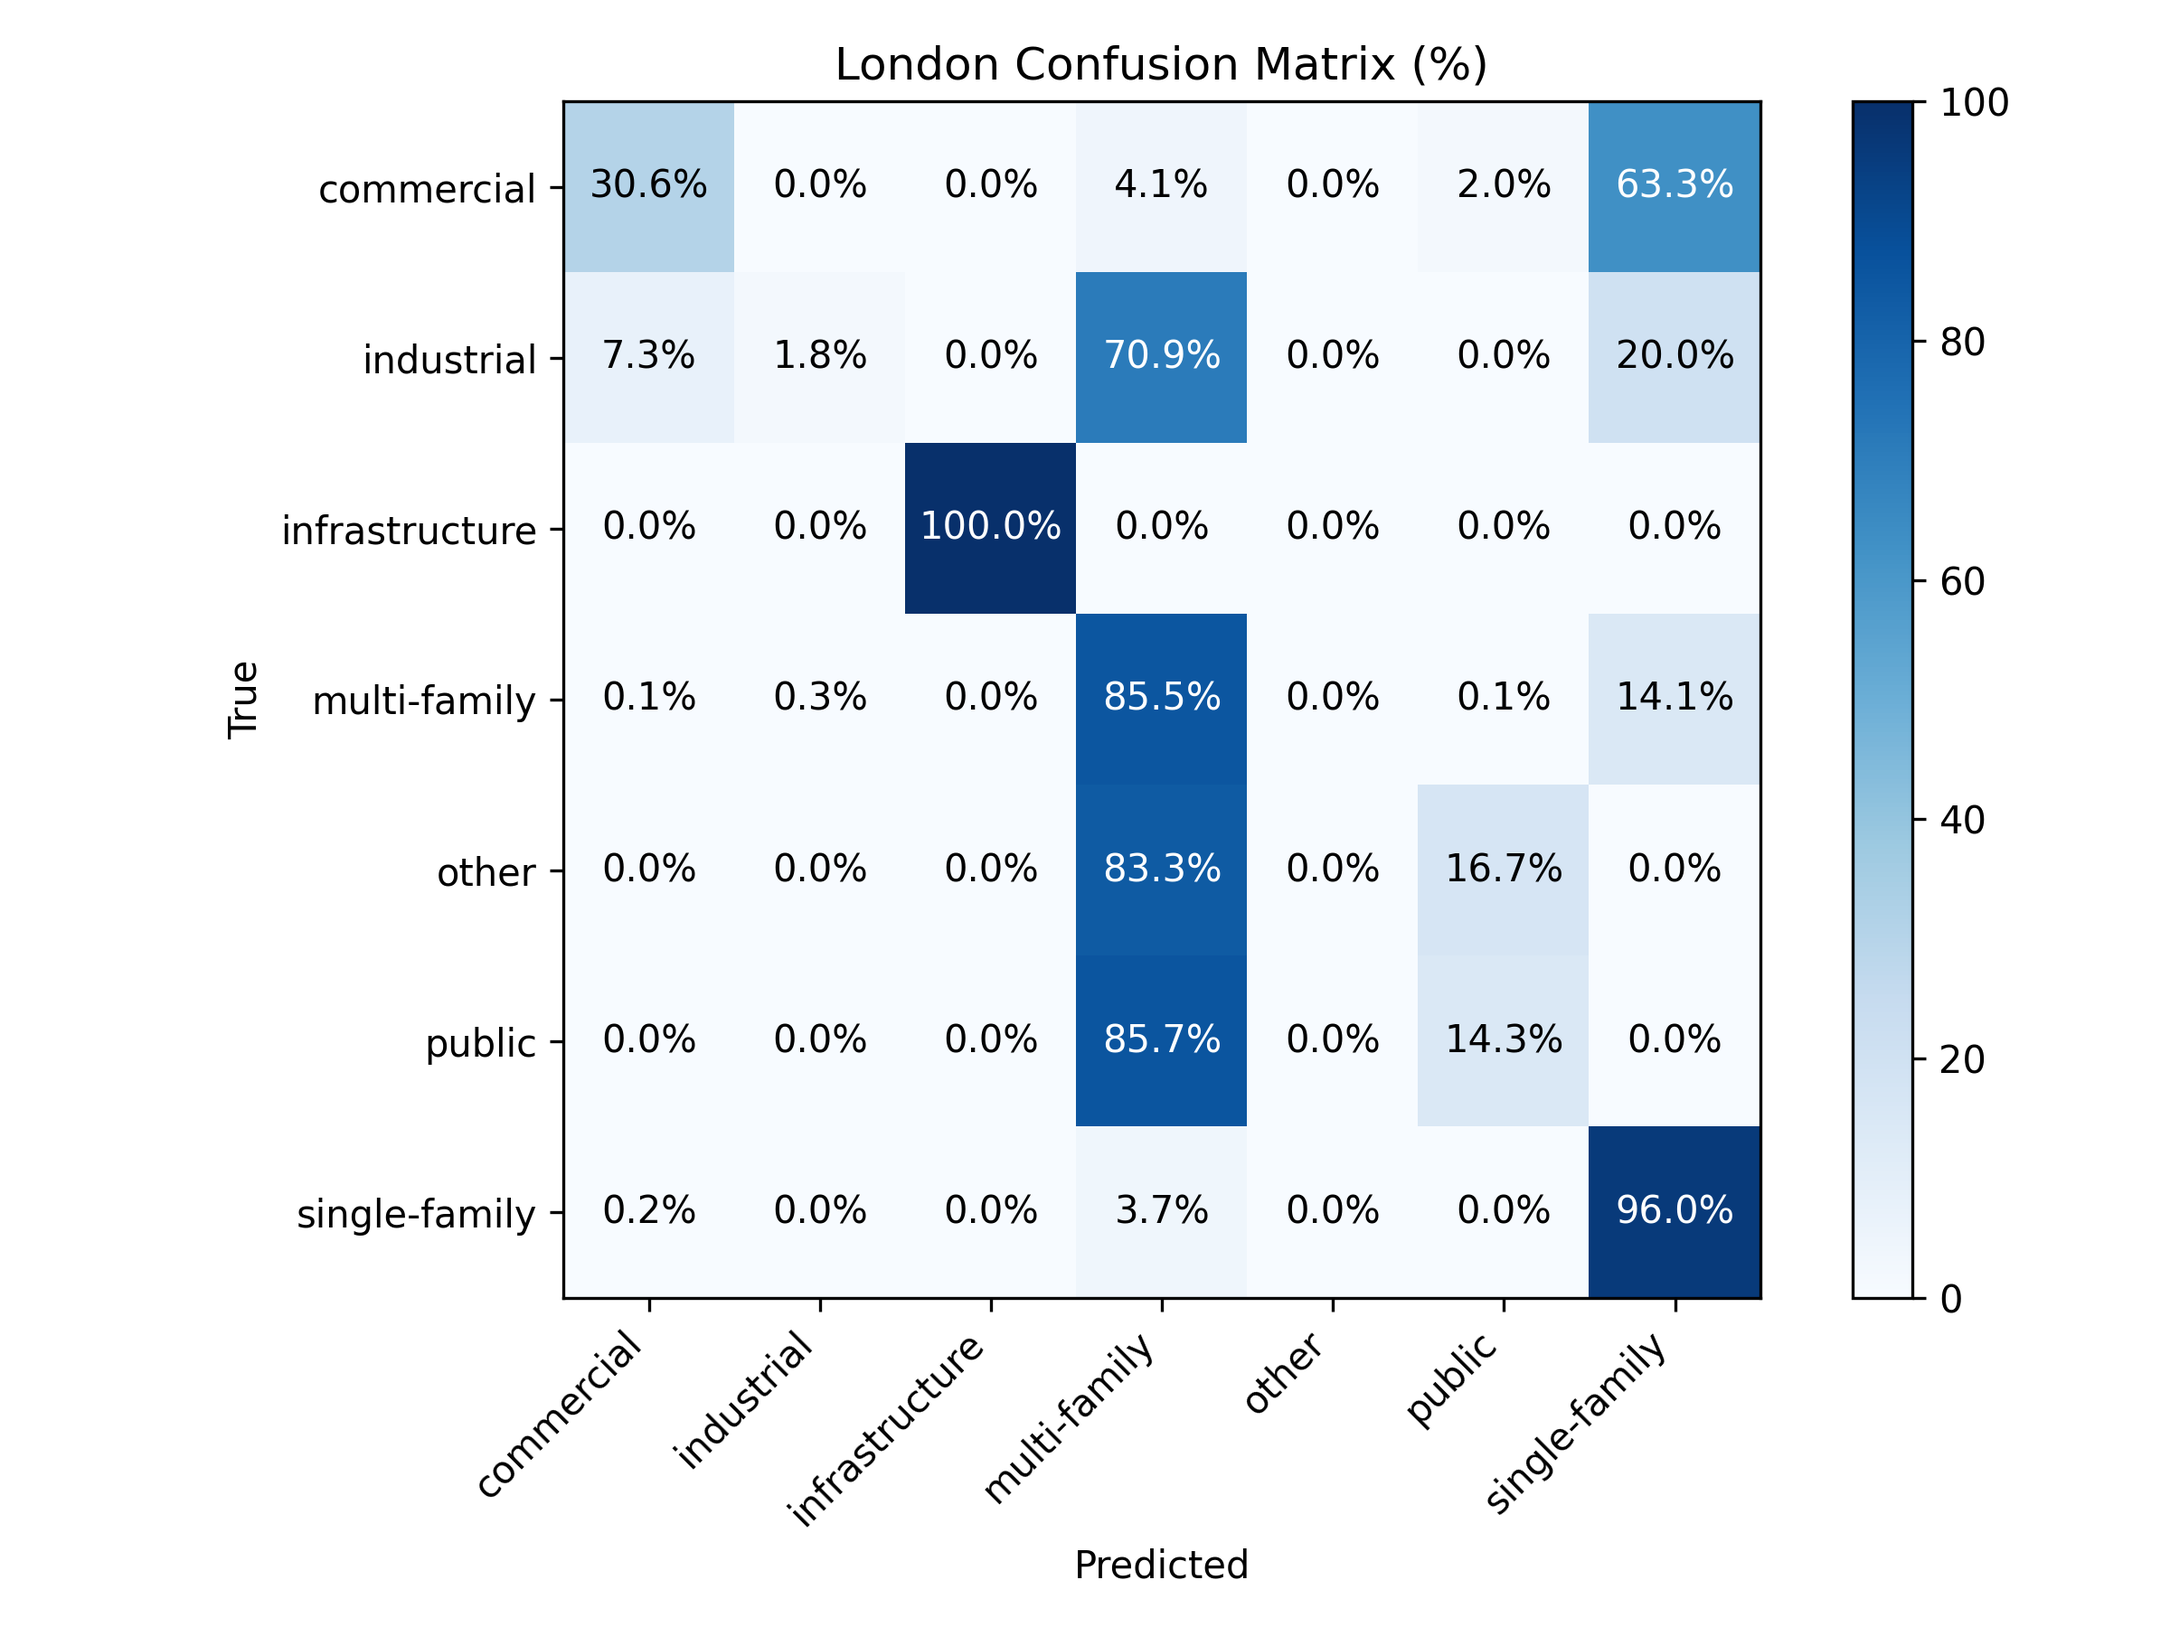
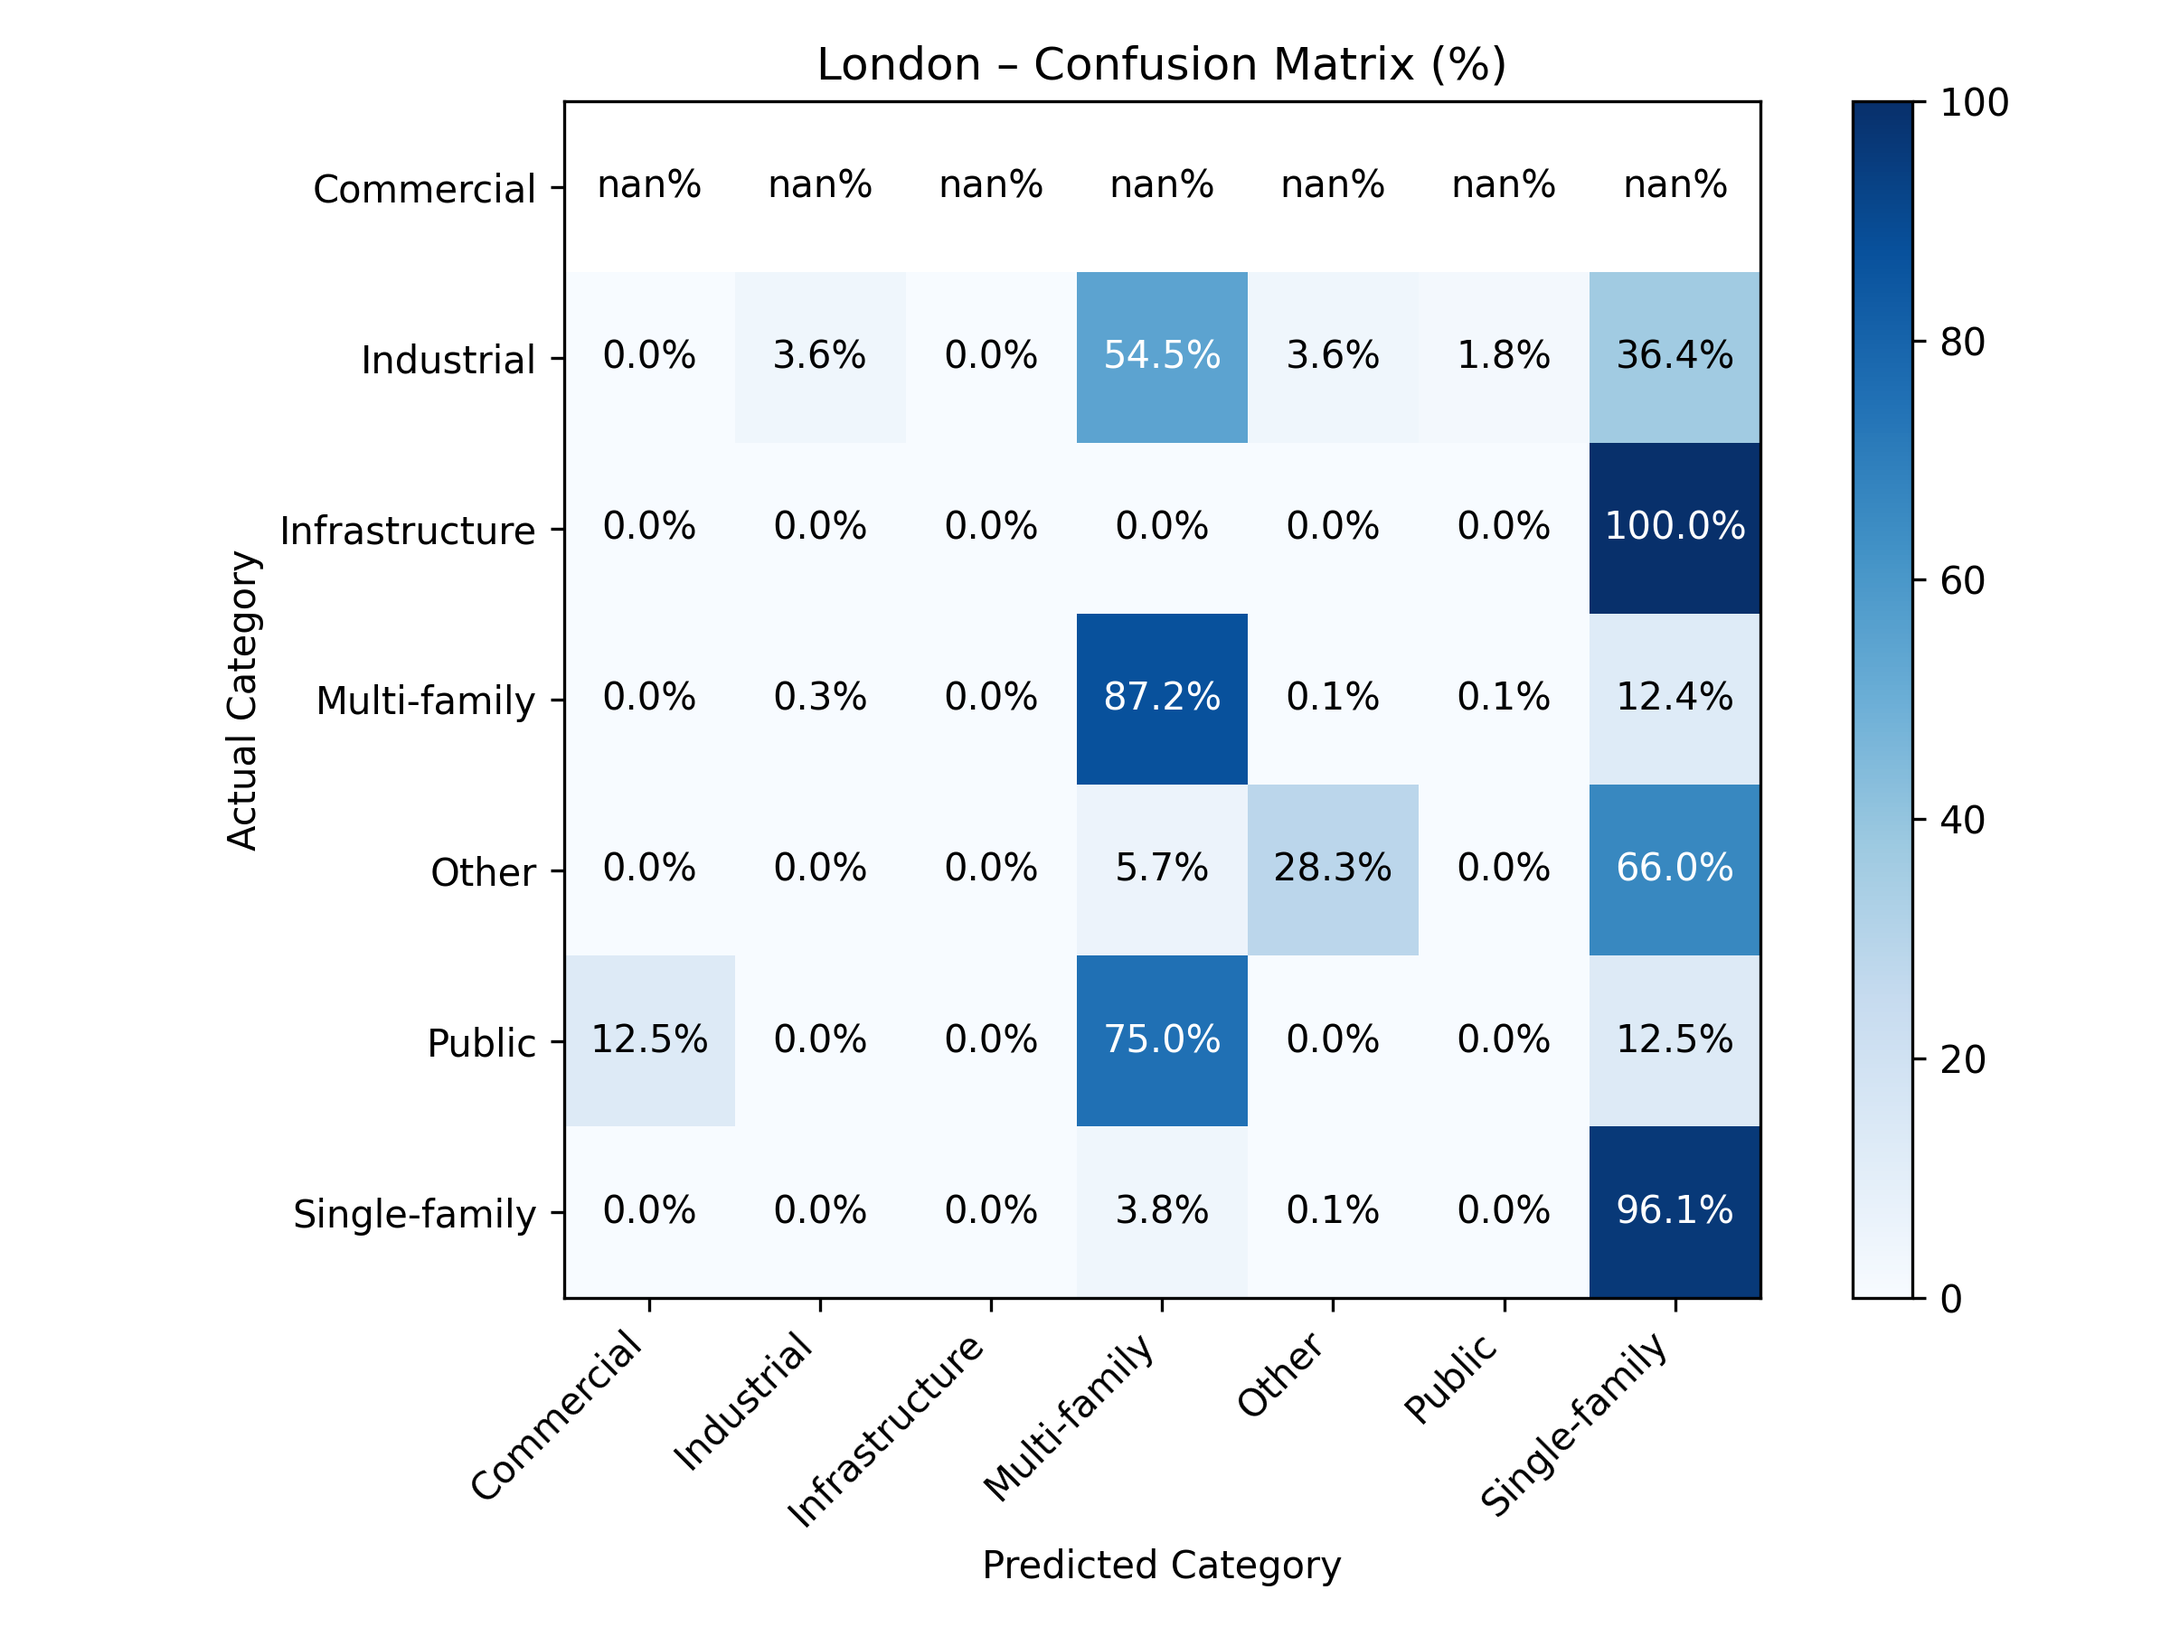
Enhance building category mapping and print "other" categories for clarity

diff --git a/data_visualization.py b/data_visualization.py
@@ -18,39 +18,50 @@ from matplotlib.patches import Patch
 # Suppress warnings
 warnings.filterwarnings("ignore", category=UndefinedMetricWarning)
 
-# Consistent categories & colors
-categories = [
-    "multi-family",
-    "single-family",
-    "commercial",
-    "industrial",
-    "public",
-    "infrastructure",
-    "other",
-]
-color_map = {
-    "multi-family": "#1F4E79",
-    "single-family": "#D55E00",
-    "commercial": "#3C7A3F",
-    "industrial": "#A11D21",
-    "public": "#7A4A91",
-    "infrastructure": "#FF5C6A",
-    "other": "#6B4A3F",
+# --- 0) Reader-friendly display names ---
+category_display = {
+    "multi-family": "Multi-family",
+    "single-family": "Single-family",
+    "commercial": "Commercial",
+    "industrial": "Industrial",
+    "public": "Public",
+    "infrastructure": "Infrastructure",
+    "other": "Other",
 }
 
-# lighter gray for train set
-light_gray = "#e0e0e0"
-gray_patch = Patch(color=light_gray, label="train set")
+feature_display = {
+    "compactnes": "Compactness",
+    "global_int": "Global Integration",
+    "local_inte": "Local Integration",
+    "building_c": "Building Coverage",
+    "rbox_width": "Building X-Dimension",
+    "rbox_height": "Building Y-Dimension",
+}
 
-# Output folder
+# Color mapping remains the same
+color_map = {
+    k: v
+    for k, v in {
+        "multi-family": "#1F4E79",
+        "single-family": "#D55E00",
+        "commercial": "#3C7A3F",
+        "industrial": "#A11D21",
+        "public": "#7A4A91",
+        "infrastructure": "#FF5C6A",
+        "other": "#6B4A3F",
+    }.items()
+}
+light_gray = "#e0e0e0"
+gray_patch = Patch(color=light_gray, label="Train set")
+
 output_dir = Path("images")
 output_dir.mkdir(exist_ok=True)
 
-# 1. Load all shapefiles, tag by city
+# --- Load & preprocess ---
 shp_paths = list(Path("data/Selected Cities").rglob("*.shp"))
 gdfs = []
 for fp in shp_paths:
-    city = Path(fp).parent.name
+    city = fp.parent.name
     g = gpd.read_file(fp)
     g["city"] = city
     gdfs.append(g)
@@ -58,12 +69,10 @@ if not gdfs:
     raise RuntimeError("No shapefiles found under data/Selected Cities")
 df = pd.concat(gdfs, ignore_index=True)
 
-# 2. Preprocess
 df.columns = df.columns.str.lower()
 df = df.dropna(subset=["building_t"]).to_crs(epsg=3857)
 
 
-# 3. Rotated‐bbox dims
 def rotated_dims(geom: Polygon):
     r = geom.minimum_rotated_rectangle
     pts = np.array(r.exterior.coords)[:4]
@@ -75,9 +84,11 @@ def rotated_dims(geom: Polygon):
 r_dims = np.array([rotated_dims(g) for g in df.geometry])
 df["rbox_width"], df["rbox_height"] = r_dims[:, 0], r_dims[:, 1]
 
-# 4. Main category mapping
-group_map = {"apartments": "multi-family"}
+# Map OSM building tags to your main categories
+group_map = {}
+group_map["apartments"] = "multi-family"
 for t in [
+    "residential",
     "house",
     "detached",
     "semidetached_house",
@@ -88,9 +99,11 @@ for t in [
     group_map[t] = "single-family"
 for t in ["industrial", "warehouse"]:
     group_map[t] = "industrial"
-for t in ["retail", "office", "supermarket", "kiosk", "garage", "garages", "parking"]:
+for t in ["retail", "office", "supermarket", "kiosk"]:
     group_map[t] = "commercial"
 for t in [
+    "public",
+    "commercial",
     "hospital",
     "school",
     "university",
@@ -109,12 +122,11 @@ for t in [
     "castle",
 ]:
     group_map[t] = "public"
-for t in ["bridge", "viaduct", "railway", "transportation"]:
+for t in ["bridge", "viaduct", "railway", "transportation", "parking"]:
     group_map[t] = "infrastructure"
 
 df["building_main"] = df["building_t"].map(group_map).fillna("other")
 
-# 5. Numeric features
 features = [
     "compactnes",
     "global_int",
@@ -127,80 +139,79 @@ for c in features:
     df[c] = pd.to_numeric(df[c], errors="coerce")
 df = df.dropna(subset=features + ["building_main"])
 
-# 6. Per-city train & side-by-side plots
+# --- Per-city visualizations ---
 for city, sub in df.groupby("city"):
-    # require at least two samples per class
     vc = sub["building_main"].value_counts()
     valid = vc[vc >= 2].index
-    sub = sub[sub["building_main"].isin(valid)]  # "isin" is a valid pandas method
+    sub = sub[sub["building_main"].isin(valid)]
     if sub["building_main"].nunique() < 2:
         continue
 
-    # split indices
     idx = sub.index.to_numpy()
     idx_tr, idx_te = train_test_split(
         idx, test_size=0.2, random_state=42, stratify=sub.loc[idx, "building_main"]
     )
 
-    # training & test data
     X_tr = sub.loc[idx_tr, features].values
     y_tr = LabelEncoder().fit_transform(sub.loc[idx_tr, "building_main"])
     X_te = sub.loc[idx_te, features].values
+
     le_city = LabelEncoder().fit(sub["building_main"])
     y_true = le_city.transform(sub.loc[idx_te, "building_main"])
 
-    # train & predict
     model = RandomForestClassifier(n_estimators=100, random_state=42)
     model.fit(X_tr, y_tr)
     y_pred = model.predict(X_te)
     acc = accuracy_score(y_true, y_pred)
 
-    # prepare GeoDataFrames
     sub_test = sub.loc[idx_te].copy()
     sub_test["pred"] = le_city.inverse_transform(y_pred)
     sub_train = sub.loc[idx_tr]
 
-    # === 1) side-by-side comparison (with lighter gray) ===
-    fig, axes = plt.subplots(1, 2, figsize=(16, 8))
-    # ground truth
-    sub_train.plot(ax=axes[0], color=light_gray, linewidth=0.1, edgecolor="gray")
-    for cat in categories:
+    # 1) Side-by-side maps
+    fig, (ax0, ax1) = plt.subplots(1, 2, figsize=(16, 8))
+    sub_train.plot(ax=ax0, color=light_gray, linewidth=0.1, edgecolor="gray")
+    for cat in le_city.classes_:
+        display = category_display[cat]
         mask = sub_test["building_main"] == cat
-        if not sub_test[mask].empty:
+        if mask.any():
             sub_test[mask].plot(
-                ax=axes[0], color=color_map[cat], linewidth=0.1, edgecolor="gray"
+                ax=ax0, color=color_map[cat], linewidth=0.1, edgecolor="gray"
             )
-    axes[0].set_title(f"{city} Ground Truth")
-    axes[0].legend(
-        handles=[gray_patch] + [Patch(color=color_map[c], label=c) for c in categories],
+    ax0.set_title(f"{city} – Ground Truth")
+    ax0.legend(
+        handles=[gray_patch]
+        + [
+            Patch(color=color_map[c], label=category_display[c])
+            for c in le_city.classes_
+        ],
         loc="lower left",
     )
-    axes[0].axis("off")
+    ax0.axis("off")
 
-    # predictions
-    sub_train.plot(ax=axes[1], color=light_gray, linewidth=0.1, edgecolor="gray")
-    for cat in categories:
-        mask = sub_test["pred"] == cat  # ← fix here
-        if not sub_test[mask].empty:
+    sub_train.plot(ax=ax1, color=light_gray, linewidth=0.1, edgecolor="gray")
+    for cat in le_city.classes_:
+        mask = sub_test["pred"] == cat
+        if mask.any():
             sub_test[mask].plot(
-                ax=axes[1], color=color_map[cat], linewidth=0.1, edgecolor="gray"
+                ax=ax1, color=color_map[cat], linewidth=0.1, edgecolor="gray"
             )
-    axes[1].set_title(f"{city} Predictions (Acc: {acc:.2f})")
-    axes[1].legend(
-        handles=[gray_patch] + [Patch(color=color_map[c], label=c) for c in categories],
+    ax1.set_title(f"{city} – Predictions (Acc: {acc:.2f})")
+    ax1.legend(
+        handles=[gray_patch]
+        + [
+            Patch(color=color_map[c], label=category_display[c])
+            for c in le_city.classes_
+        ],
         loc="lower left",
     )
-    axes[1].axis("off")
+    ax1.axis("off")
 
     plt.tight_layout(pad=2.0)
-    (output_dir / f"{city}_comparison.png").write_bytes(
-        fig.canvas.tostring_argb()
-    )  # or fig.savefig(...)
     fig.savefig(output_dir / f"{city}_comparison.png", dpi=300)
     plt.close(fig)
 
-    # === 2) confusion‐matrix heatmap (percent) ===
-    # numeric true/pred arrays are y_true, y_pred
+    # 2) City-wise confusion matrix (%)
     labels = range(len(le_city.classes_))
     cm = confusion_matrix(y_true, y_pred, labels=labels)
     cm_pct = cm.astype(float) / cm.sum(axis=1, keepdims=True) * 100
@@ -208,8 +219,10 @@ for city, sub in df.groupby("city"):
     im = ax2.imshow(cm_pct, interpolation="nearest", cmap="Blues")
     ax2.set_xticks(labels)
     ax2.set_yticks(labels)
-    ax2.set_xticklabels(le_city.classes_, rotation=45, ha="right")
-    ax2.set_yticklabels(le_city.classes_)
+    ax2.set_xticklabels(
+        [category_display[c] for c in le_city.classes_], rotation=45, ha="right"
+    )
+    ax2.set_yticklabels([category_display[c] for c in le_city.classes_])
     for i in labels:
         for j in labels:
             ax2.text(
@@ -220,24 +233,78 @@ for city, sub in df.groupby("city"):
                 va="center",
                 color="white" if cm_pct[i, j] > 50 else "black",
             )
-    ax2.set_xlabel("Predicted")
-    ax2.set_ylabel("True")
-    ax2.set_title(f"{city} Confusion Matrix (%)")
+    ax2.set_xlabel("Predicted Category")
+    ax2.set_ylabel("Actual Category")
+    ax2.set_title(f"{city} – Confusion Matrix (%)")
     fig2.colorbar(im, ax=ax2)
     fig2.tight_layout()
     fig2.savefig(output_dir / f"{city}_confusion_matrix.png", dpi=300)
     plt.close(fig2)
 
-    # === 3) feature‐importance bar chart ===
+    # 3) City-wise feature importance
     importances = model.feature_importances_
     fig3, ax3 = plt.subplots(figsize=(8, 6))
-    ax3.barh(features, importances)
+    ax3.barh([feature_display[f] for f in features], importances)
     ax3.set_xlabel("Relative Importance")
-    ax3.set_title(f"{city} Feature Importances")
+    ax3.set_title(f"{city} – Feature Importances")
     fig3.tight_layout()
     fig3.savefig(output_dir / f"{city}_feature_importance.png", dpi=300)
     plt.close(fig3)
 
-print(
-    f"Saved comparison, confusion matrix, and feature‐importance plots to {output_dir.resolve()}"
+# --- 4) Overall model on full data ---
+idx_all = df.index.to_numpy()
+idx_tr_all, idx_te_all = train_test_split(
+    idx_all, test_size=0.2, random_state=42, stratify=df.loc[idx_all, "building_main"]
 )
+X_tr_all = df.loc[idx_tr_all, features].values
+y_tr_all = LabelEncoder().fit_transform(df.loc[idx_tr_all, "building_main"])
+X_te_all = df.loc[idx_te_all, features].values
+
+le_all = LabelEncoder().fit(df["building_main"])
+y_true_all = le_all.transform(df.loc[idx_te_all, "building_main"])
+
+model_all = RandomForestClassifier(n_estimators=100, random_state=42)
+model_all.fit(X_tr_all, y_tr_all)
+y_pred_all = model_all.predict(X_te_all)
+acc_all = accuracy_score(y_true_all, y_pred_all)
+
+# 4a) Overall confusion matrix
+cm_all = confusion_matrix(y_true_all, y_pred_all, labels=range(len(le_all.classes_)))
+cm_all_pct = cm_all.astype(float) / cm_all.sum(axis=1, keepdims=True) * 100
+fig4, ax4 = plt.subplots(figsize=(8, 6))
+im4 = ax4.imshow(cm_all_pct, interpolation="nearest", cmap="Blues")
+ax4.set_xticks(range(len(le_all.classes_)))
+ax4.set_yticks(range(len(le_all.classes_)))
+ax4.set_xticklabels(
+    [category_display[c] for c in le_all.classes_], rotation=45, ha="right"
+)
+ax4.set_yticklabels([category_display[c] for c in le_all.classes_])
+for i in range(len(le_all.classes_)):
+    for j in range(len(le_all.classes_)):
+        ax4.text(
+            j,
+            i,
+            f"{cm_all_pct[i, j]:.1f}%",
+            ha="center",
+            va="center",
+            color="white" if cm_all_pct[i, j] > 50 else "black",
+        )
+ax4.set_xlabel("Predicted Category")
+ax4.set_ylabel("Actual Category")
+ax4.set_title(f"Overall Confusion Matrix (%) (Acc: {acc_all:.2f})")
+fig4.colorbar(im4, ax=ax4)
+fig4.tight_layout()
+fig4.savefig(output_dir / "overall_confusion_matrix.png", dpi=300)
+plt.close(fig4)
+
+# 4b) Overall feature importance
+feat_imp_all = model_all.feature_importances_
+fig5, ax5 = plt.subplots(figsize=(8, 6))
+ax5.barh([feature_display[f] for f in features], feat_imp_all)
+ax5.set_xlabel("Relative Importance")
+ax5.set_title("Overall Feature Importances")
+fig5.tight_layout()
+fig5.savefig(output_dir / "overall_feature_importance.png", dpi=300)
+plt.close(fig5)
+
+print(f"Saved all plots (city-wise + overall) to {output_dir.resolve()}")

diff --git a/type_prediction.py b/type_prediction.py
@@ -66,6 +66,7 @@ df["rbox_width"], df["rbox_height"] = r_dims[:, 0], r_dims[:, 1]
 group_map = {}
 group_map["apartments"] = "multi-family"
 for t in [
+    "residential",
     "house",
     "detached",
     "semidetached_house",
@@ -79,6 +80,8 @@ for t in ["industrial", "warehouse"]:
 for t in ["retail", "office", "supermarket", "kiosk"]:
     group_map[t] = "commercial"
 for t in [
+    "public",
+    "commercial",
     "hospital",
     "school",
     "university",
@@ -101,6 +104,10 @@ for t in ["bridge", "viaduct", "railway", "transportation", "parking"]:
     group_map[t] = "infrastructure"
 
 df["building_main"] = df["building_t"].map(group_map).fillna("other")
+
+# Print the names of "other" building categories
+other_categories = df.loc[df["building_main"] == "other", "building_t"].unique()
+print("Building categories classified as 'other':", other_categories)
 
 # ─── 5. select & clean features ────────────────────────────────────────────
 features = [
